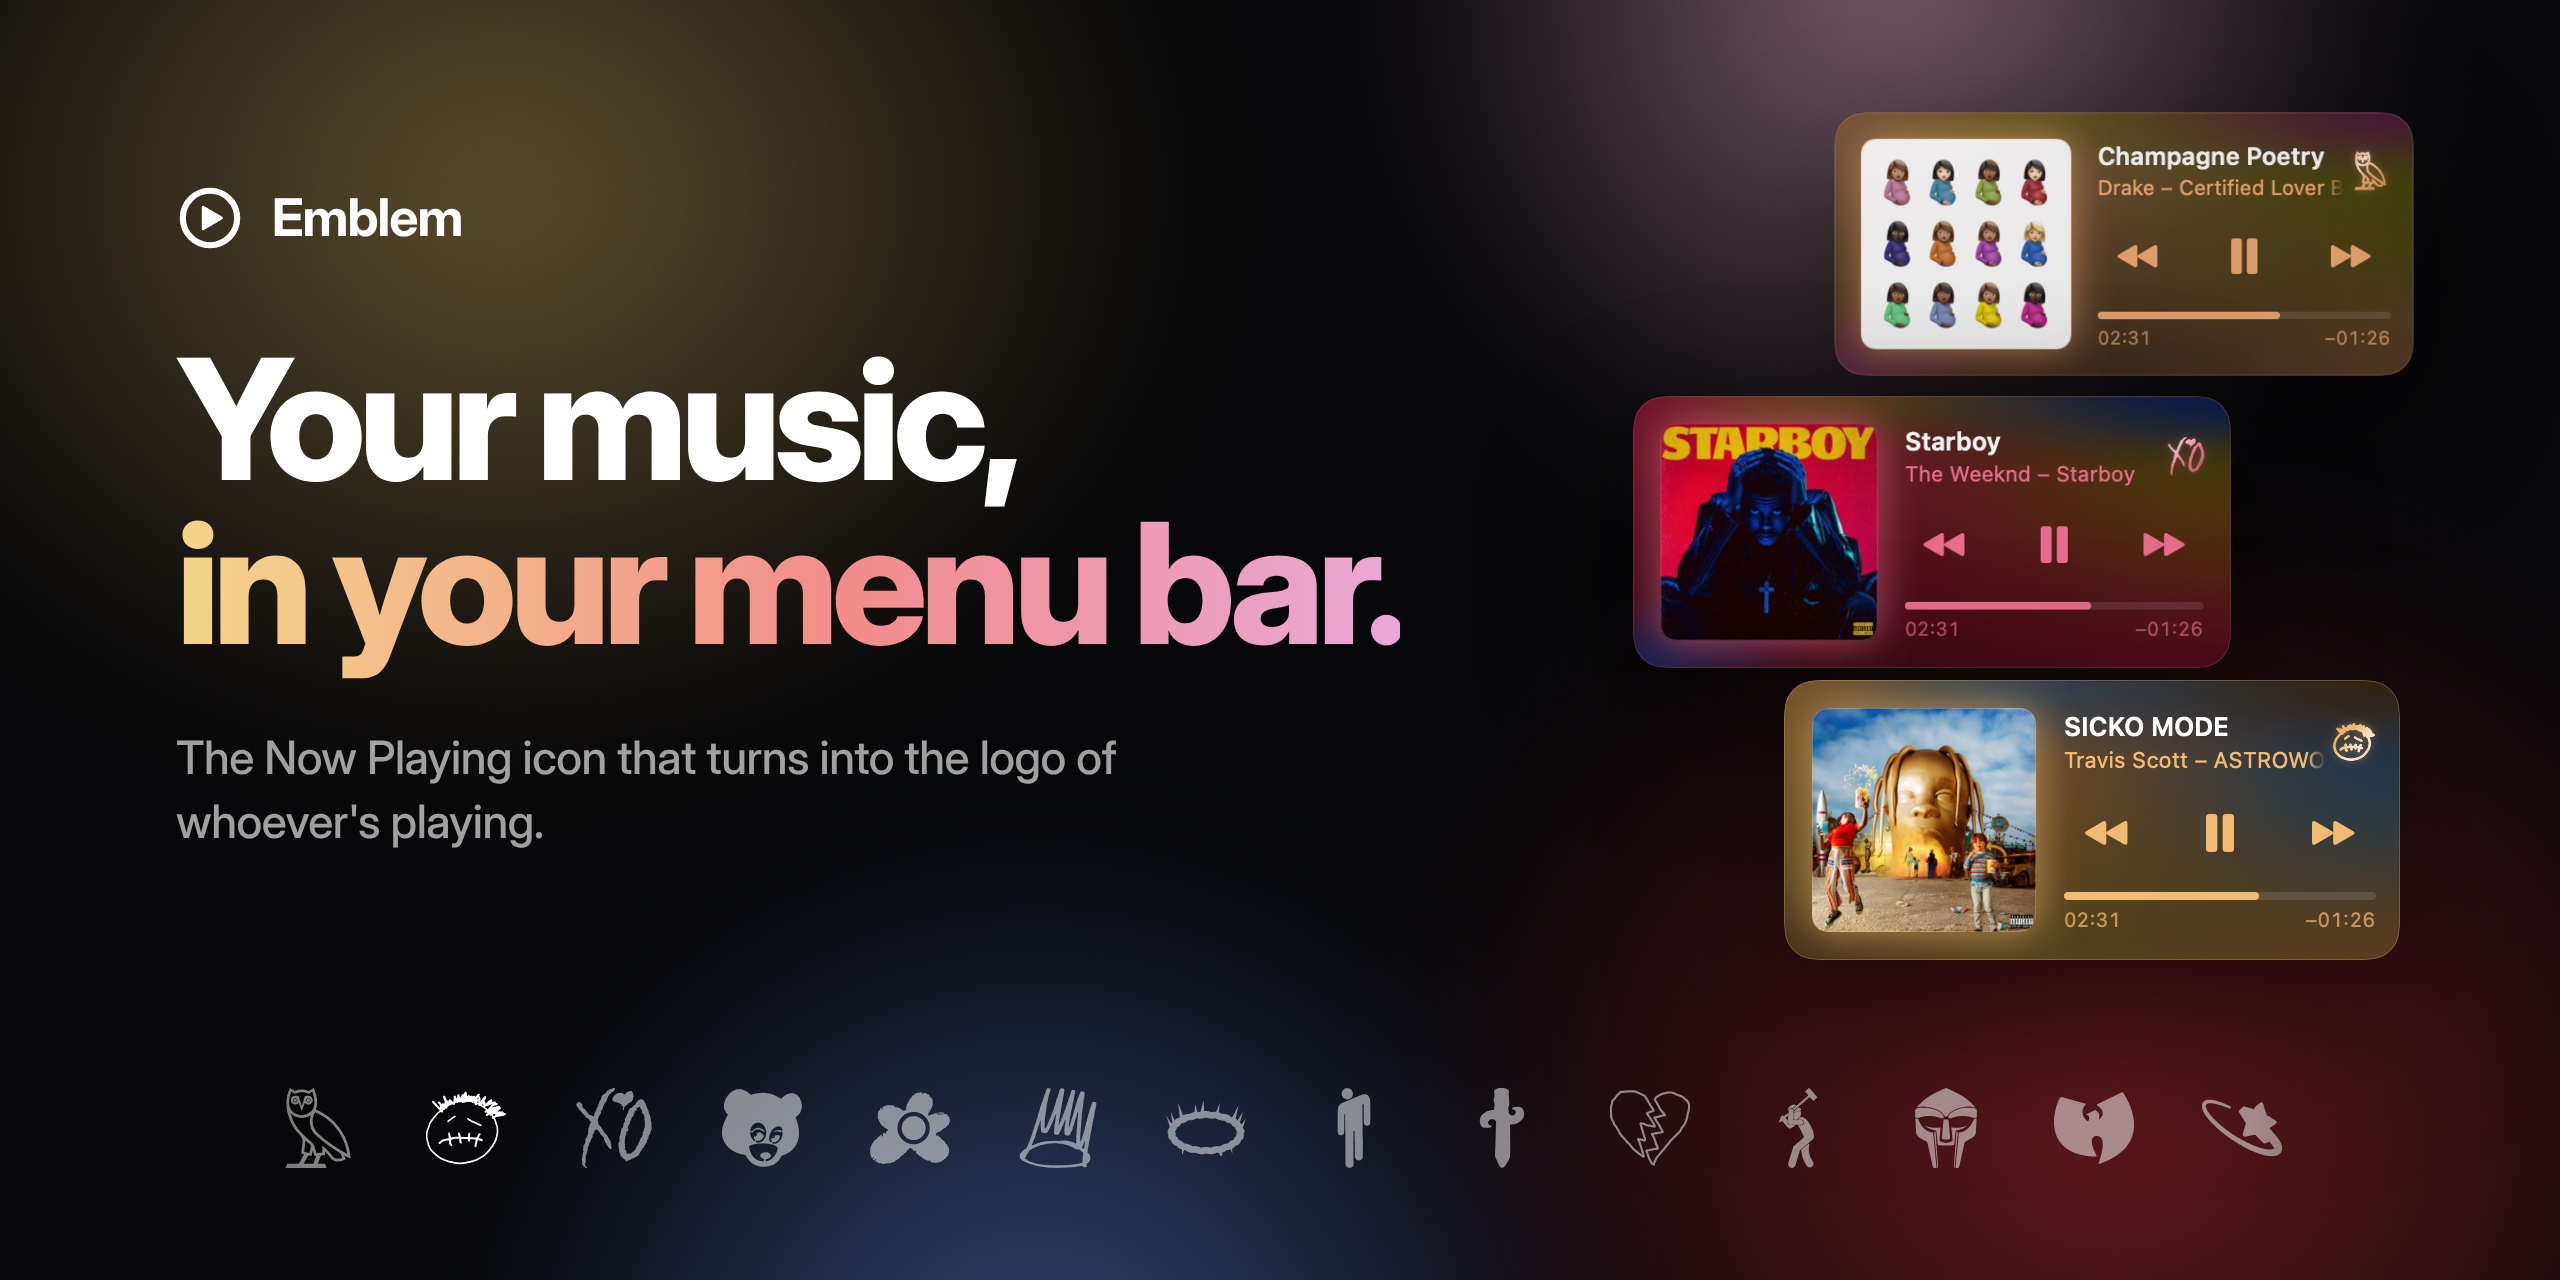
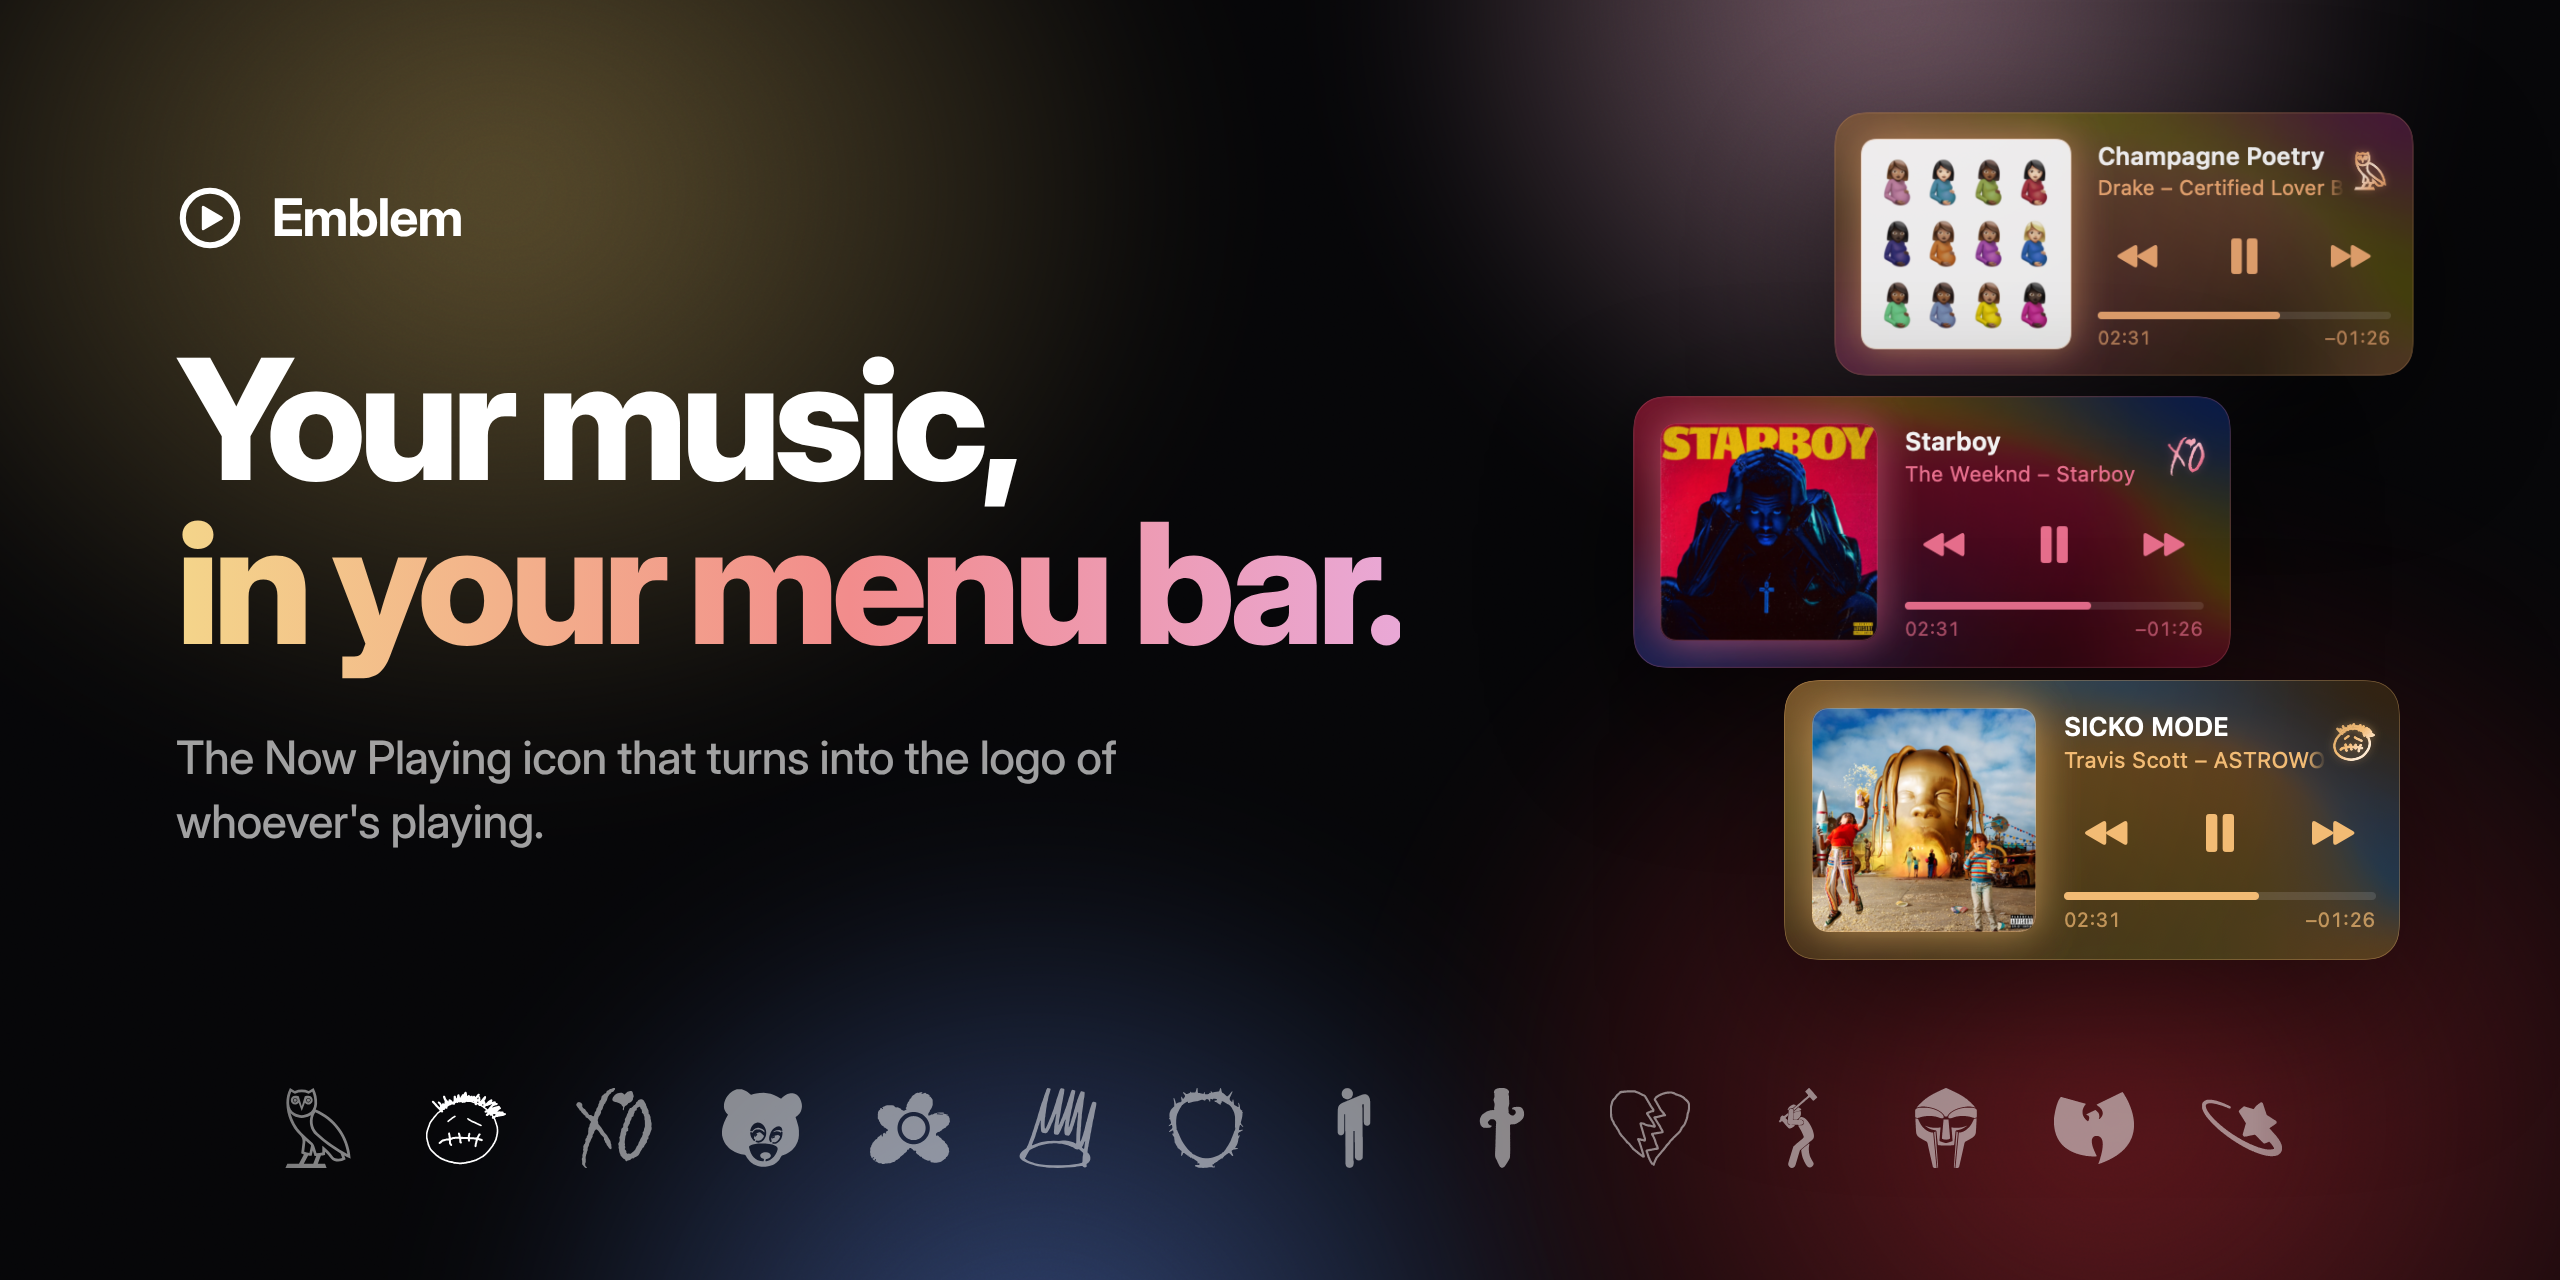
Trace Kendrick's crown of thorns from Tiffany's photo of the real crown
The old crown was a hand-made front-view oval that looked nothing like the
piece Kendrick wore. It's now traced with potrace from Tiffany & Co.'s
official top-down press photo: the diamond branches are separated from
the background and shadow by brightness and texture, and drawn solid at
the full 21.5pt with a little extra outline so the thorns show.

diff --git a/CLAUDE.md b/CLAUDE.md
@@ -1,6 +1,6 @@
 # Emblem: notes for contributors and coding agents
 
-A personal macOS menu bar app that replaces the system Now Playing item. It works like the system item, except it morphs into an artist's logo while Spotify plays their track (lead or featured): the OVO owl for Drake, the College Dropout bear for Kanye, the XO for The Weeknd, the Cactus Jack face for Travis Scott, the GOLF le FLEUR* flower for Tyler, the Creator, the Born Sinner crown for J. Cole, the metal mask for MF DOOM, the W for Wu-Tang Clan, the dagger for 21 Savage, the Blohsh figure for Billie Eilish, the broken heart for Lil Peep, the crown of thorns for Kendrick Lamar, and the Concrete Boys stick figure for Lil Yachty. It was called OVOBar before it was renamed Emblem. The logos and names belong to their owners (OVO, the artists and their labels); see the disclaimer in README.md.
+A personal macOS menu bar app that replaces the system Now Playing item. It works like the system item, except it morphs into an artist's logo while Spotify plays their track (lead or featured): the OVO owl for Drake, the College Dropout bear for Kanye, the XO for The Weeknd, the Cactus Jack face for Travis Scott, the GOLF le FLEUR* flower for Tyler, the Creator, the Born Sinner crown for J. Cole, the metal mask for MF DOOM, the W for Wu-Tang Clan, the dagger for 21 Savage, the Blohsh figure for Billie Eilish, the broken heart for Lil Peep, the crown of thorns for Kendrick Lamar (traced from Tiffany's photo of the real crown), and the Concrete Boys stick figure for Lil Yachty. It was called OVOBar before it was renamed Emblem. The logos and names belong to their owners (OVO, the artists and their labels); see the disclaimer in README.md.
 
 ## Build and run
 
@@ -65,6 +65,7 @@ Pasted screenshots are usually scaled. Calibrate pixel measurements against a kn
 - **Menu bar crown:** 17pt tall, traced from the gold crown on the Born Sinner deluxe cover (`Resources/crown_template.svg`). A fan sticker was used first, but it was narrower than the album crown; trace from the album art when it has the symbol, with 0.3pt extra weight; more merges the zigzag points.
 - **Menu bar star (Pop Smoke):** the Shoot for the Stars, Aim for the Moon star and ring, traced with potrace from the exact image the owner supplied. Don't redraw it: the owner rejected a hand-drawn approximation (and before that a cloud and a rose). Solid, nonZero fill; it's wide, so the 24pt width limits it.
 - **Menu bar stick figure (Lil Yachty):** tall and thin, so at 21.5pt its limbs were ~1.5pt and hard to see. The sparkle specks are gone, every part gets 0.35pt extra outline, and the hammer (path 0), body (6) and legs (7) more (to ~1pt), the far arm (5) a little. Heavier weights on the head and near arm merge them into a blob.
+- **Menu bar crown of thorns (Kendrick):** traced with potrace from Tiffany & Co.'s official top-down press photo of the Glastonbury crown (the owner rejected a hand-made front-view oval). Branches are kept where pixels are dark (<140) or speckled by the diamonds (3×3 std > 26), which drops the smooth grey shadow; sparkle gaps are closed so the band is solid. Solid, even-odd (the centre is open), 21.5pt tall, 0.35pt extra outline so the thorns show.
 - **Faces:** a realistic face (a Lauryn Hill stencil) was tried and dropped. At 17pt the features are 2–3pt and unrecognisable, and a one-color stencil shows as a negative on dark menu bars. Cartoon faces whose features fill the head (the bear, Cactus Jack) work.
 
 ## Behaviour notes
